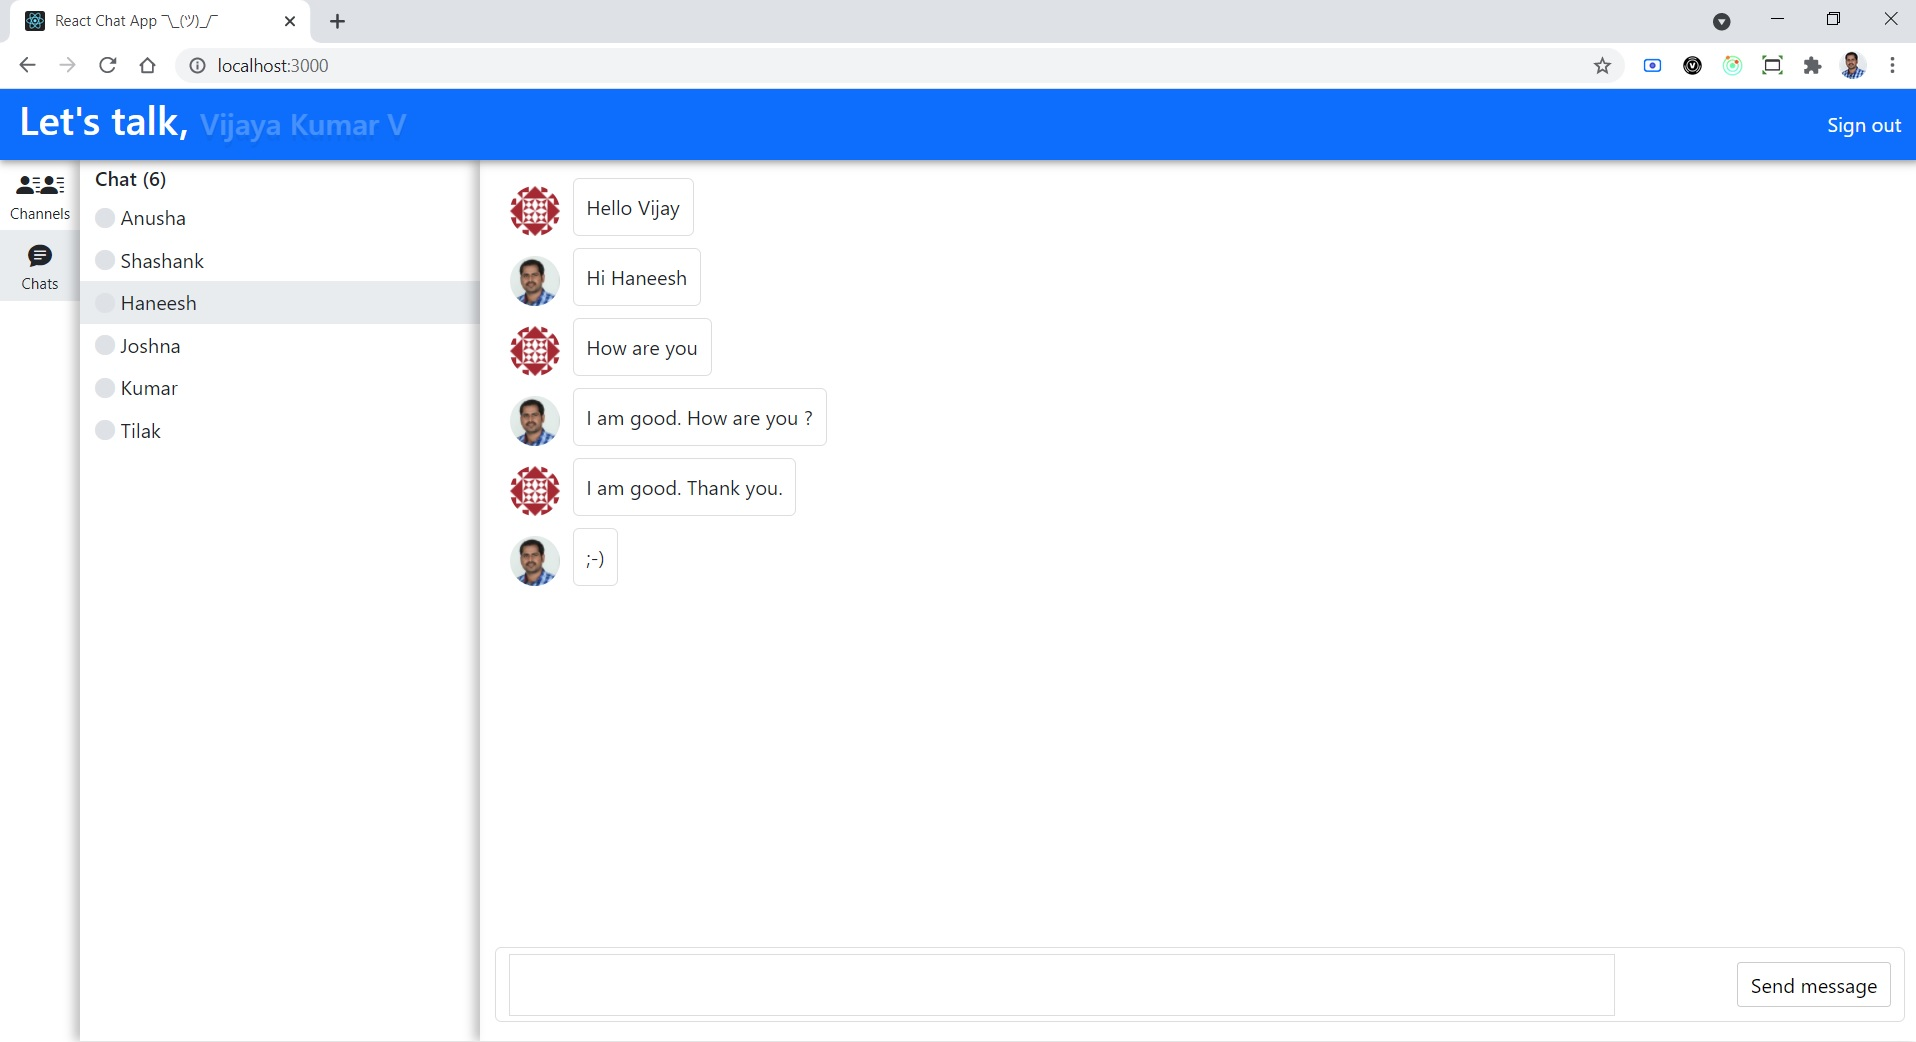
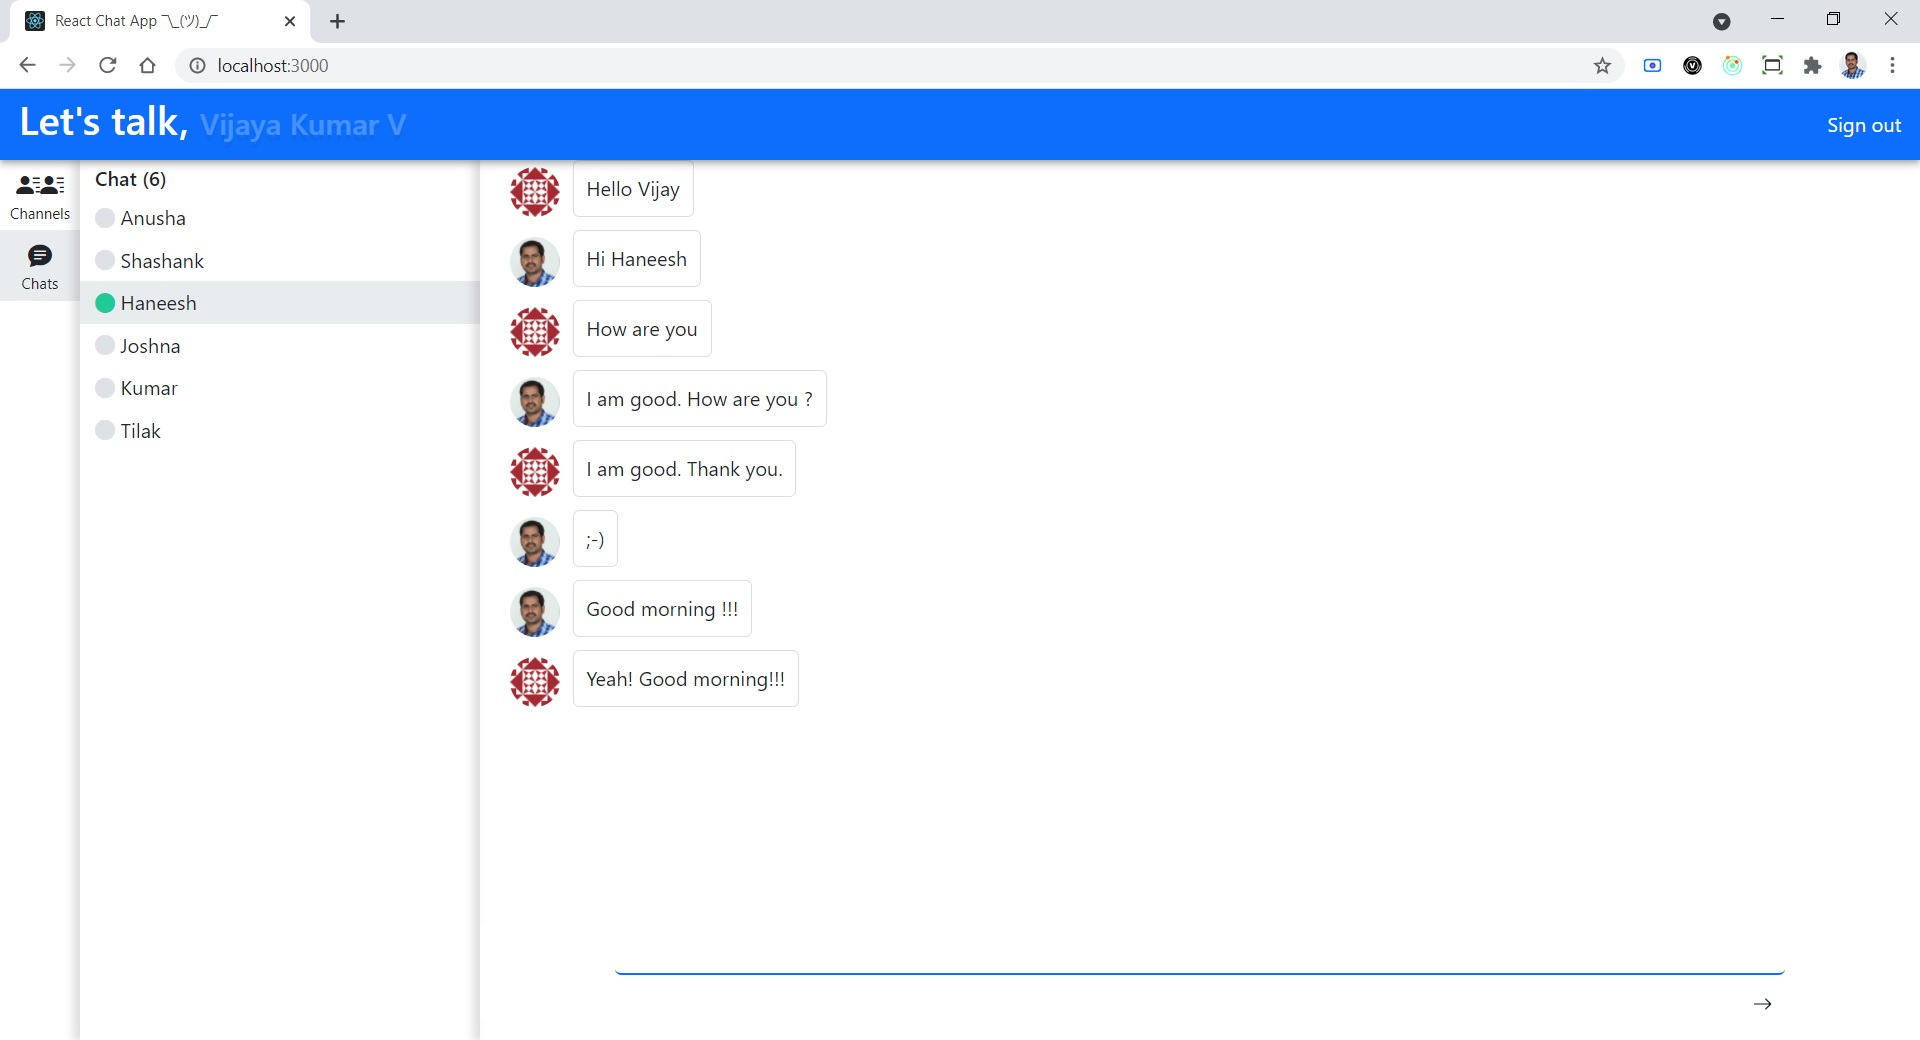
UI/UX updates

diff --git a/src/components/chatswindow/chatform.js b/src/components/chatswindow/chatform.js
@@ -8,11 +8,9 @@ function ChatForm (props) {
   const messagesRef = props.messagesRef;
   const user = props.currentUser;
   const [msg, setMsg] = useState();
-  const [loading, setLoading] = useState(false);
   const [file, setFile] = useState('');
   const authorizedImage = ['image/jpeg', 'image/png'];
   const storageRef = firebase.storage().ref();
-  const [uploadTask, setUploadTask] = useState('');
   
   const handleChange = event => {
     setMsg(event.target.value);
@@ -53,17 +51,14 @@ function ChatForm (props) {
 
   const sendMessage = () => {
     if (msg) {
-      setLoading(true);
       messagesRef
         .child(channel.id)
         .push()
         .set(createMessage())
         .then(() => {
-          setLoading(false);
           setMsg('');
         })
         .catch((error) => {
-          setLoading(false);
           console.log(error);
         })
     }
@@ -87,11 +82,17 @@ function ChatForm (props) {
   }
 
   return (
-    <div className="chat-window-form space-between">
-      <textarea onChange={handleChange} value={msg}></textarea>
-      <div className="btn-group space-between">
-        <input type="file" onChange={addFile} className="d-none"></input>
-        <button onClick={sendMessage}>Send message</button>
+    <div className="row chat-window-form">
+      <div className="col-md-10  offset-md-1">
+        <textarea onChange={handleChange} value={msg}></textarea>
+        <div className="btn-group space-between">
+          <div>
+            <input type="file" onChange={addFile} className="d-none"></input>
+          </div>
+          <button onClick={sendMessage}>
+            <i className="bi bi-arrow-right"></i>
+          </button>
+        </div>
       </div>
     </div>
   )

diff --git a/src/components/chatswindow/chatwindow.js b/src/components/chatswindow/chatwindow.js
@@ -1,4 +1,4 @@
-import React, { useState } from 'react';
+import React, { useState, useEffect } from 'react';
 import firebase from './../../auth/firebase';
 
 import ChatHeader from './chatheader';
@@ -13,13 +13,13 @@ function ChatWindow (props) {
   const channel = props.currentChannel;
   const [uniqueUsers, setUniqueUsers] = useState(0);
 
-  const [messages, setMessages] = useState([]); 
+  const [messages, setMessages] = useState([]);
+  const [isMessagesLoaded, setIsMessagesLoaded] = useState(false);
 
   const countUniqueUsers = messages => {
     const uniqueUser = messages.reduce((acc, message) => {
-      if (!acc.includes(message.user.name)) {
+      if (!acc.includes(message.user.name))
         acc.push(message.user.name);
-      }
       return acc;
     }, []);
     setUniqueUsers(uniqueUser.length);
@@ -33,14 +33,14 @@ function ChatWindow (props) {
         loadedMessages.push(snap.val());
         setMessages(loadedMessages);
         countUniqueUsers(loadedMessages);
+        setIsMessagesLoaded(true);
       });
   }
 
-  useState(() => {
-    if (user && channel) {
+  useEffect(() => {
+    if (user && channel)
       addMessageListeners(channel.id);
-    }
-  }, [messages])
+  }, [isMessagesLoaded])
 
   return (
     <div className="row">

diff --git a/src/components/chatswindow/chat.css b/src/components/chatswindow/chat.css
@@ -1,34 +1,20 @@
 /* Chat window designs */
 .chat-window {
   position: relative;
-  padding-top: 15px;
   padding-bottom: 15px;
-  box-shadow: -5px 0 8px rgb(0 0 0 / 24%);
+  box-shadow: -5px 0 8px rgb(0 0 0 / 14%);
 }
 
 .chat-window-header,
 .chat-window-form {
-  padding: 10px;
   border-radius: 5px;
-  border: 1px solid #ddd;
   background-color: white;
 }
 
-.chat-window-form {
-  height: 60px;
-}
-
 .chat-messages {
-  height: calc(100% - 60px);
+  height: calc(100% - 80px);
   overflow: hidden;
   overflow-y: auto;
-}
-
-.chat-window-form textarea {
-  width: 80%;
-  height: 50px;
-  resize: none;
-  border: 1px solid #ddd;
 }
 
 .message-box {
@@ -54,4 +40,32 @@
   border-radius: 5px;
   border: 1px solid #ddd;
   background-color: white;
+}
+
+.chat-window-form {
+  height: 80px;
+}
+
+.chat-window-form button {
+  border: 0;
+}
+
+.chat-window-form i {
+  font-weight: bold;
+}
+
+.chat-window-form textarea {
+  width: 100%;
+  height: 42px;
+  padding: 7px 10px;
+  resize: none;
+  border-radius: 5px;
+  border: 0;
+  border-bottom: 2px solid var(--bs-blue);
+}
+
+.chat-window-form textarea:focus {
+  outline: none;
+  border: 1px solid var(--bs-blue);
+  border-bottom: 2px solid var(--bs-blue);
 }

diff --git a/src/components/profile/index.js b/src/components/profile/index.js
@@ -1,10 +1,19 @@
-import React, { useEffect, useState } from 'react';
+import React, { useState } from 'react';
 import firebase from './../../auth/firebase';
 
 import './index.css';
 
 function UserProfile (props) {
   const userName = props.userProfile.displayName;
+  const userPhoto = props.userProfile.photoURL;
+
+  const handleUser = () => {
+    const modal = document.getElementById('user_modal');
+    if (modal.classList.contains('d-none'))
+      modal.classList.remove('d-none');
+    else
+      modal.classList.add('d-none');
+  }
   
   const handleSignOut = () => {
     firebase
@@ -18,7 +27,10 @@ function UserProfile (props) {
   return (
     (userName ? 
       <div className="user-profile">
-        <span onClick={handleSignOut} className="sign-out">Sign out</span>
+        <img src={userPhoto} alt='profile' onClick={handleUser}/>
+        <div id="user_modal" className="user-profile-modal d-none">
+          <div onClick={handleSignOut} className="sign-out">Sign out</div>
+        </div>
       </div>
       : 'loading...')
   )

diff --git a/src/components/profile/index.css b/src/components/profile/index.css
@@ -1,5 +1,37 @@
-.sign-out {
-  display: inline-block;
-  margin-left: 15px;
+.user-profile {
+  position: relative;
+  color: #000;
+}
+
+.user-profile-modal {
+  position: absolute;
+  z-index: 98;
+  right: 0;
+  top: 40px;
+  min-width: 200px;
+  border-radius: 0 0 3px 3px;
+  background-color: var(--bs-white);
+  box-shadow: rgb(0 0 0 / 20%) 0px 2px 4px -1px,
+              rgb(0 0 0 / 14%) 0px 4px 5px 0px,
+              rgb(0 0 0 / 12%) 0px 1px 10px 0px;
+  overflow: hidden;
+}
+
+.user-profile img {
+  width: 35px;
+  height: 35px;
+  border-radius: 50%;
+  border: 2px solid #fff;
   cursor: pointer;
+}
+
+.sign-out {
+  padding: 5px 10px;
+  border-top: 1px solid #eee;
+  cursor: pointer;
+}
+
+.sign-out:hover {
+  background-color: #0d6efd;
+  color: #fff;
 }

diff --git a/src/index.js b/src/index.js
@@ -1,4 +1,4 @@
-import React, { useEffect, useState } from 'react';
+import React, { useEffect } from 'react';
 import ReactDOM from 'react-dom';
 import { BrowserRouter as Router, Switch, Route, withRouter } from 'react-router-dom';
 

diff --git a/src/components/chatspanel/index.css b/src/components/chatspanel/index.css
@@ -32,7 +32,7 @@
 }
 
 .list-panel {
-  box-shadow: -5px 0 8px rgb(0 0 0 / 24%);
+  box-shadow: -5px 0 8px rgb(0 0 0 / 14%);
 }
 
 .chat-channels h6,
